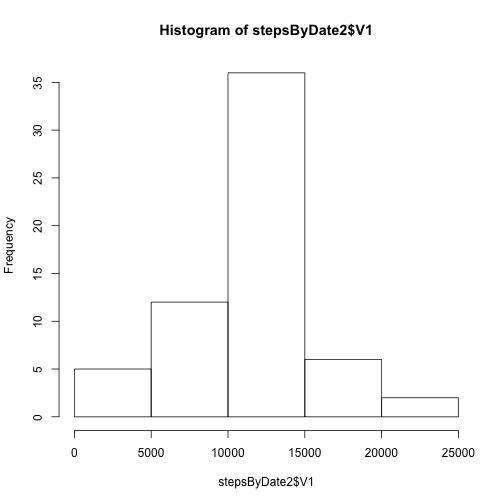
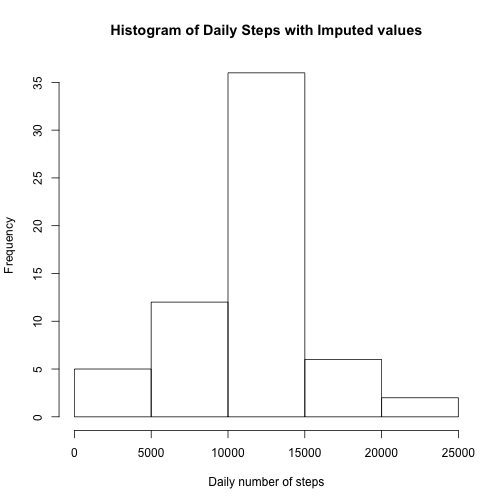
Updated plots

Changed region(s): [[0.2083, 0.0298, 0.8333, 0.0893], [0.4167, 0.9226, 0.6548, 0.9821]]

diff --git a/PA1_ashetti.md b/PA1_ashetti.md
@@ -1,0 +1,132 @@
+---
+output: html_document
+---
+# Reproducible Research: Peer Assessment 1
+This is the submission for the Coursera Reproducible Research course Peer Assessment 1.  
+Lets first load the data.table package. This package makes life easy for us later when summing up and creating time series plots  and also we will load the plyr package for the ddply function, which makes life easy in calculating subtotals across multiple levels. And also the ggplot2 package for plotting functions.
+
+```r
+library(data.table)
+library(plyr)
+library(ggplot2)
+```
+Now lets load up the data. We assume activity.zip is in our working directory.  
+## Loading and preprocessing the data
+
+```r
+unzip("activity.zip")
+activity <- read.csv("activity.csv")
+ACTIVITY <- data.table(activity)
+setkey(ACTIVITY,date)
+```
+  
+
+## What is mean total number of steps taken per day?
+
+```r
+stepsByDate <- ACTIVITY[,sum(steps,na.rm = TRUE),by=date];
+hist(x=stepsByDate$V1,plot=TRUE,main="Histogram of Daily Steps",xlab="Daily number of steps");
+```
+
+![plot of chunk Question2](figure/Question2.png) 
+
+```r
+meansteps <- mean(stepsByDate$V1);
+mediansteps <- median(stepsByDate$V1);
+mean1 <- sprintf("%.0f",meansteps)
+median1 <- sprintf("%.0f",mediansteps)
+```
+The mean total number of steps taken per day is 9354  
+The median total number of steps taken per day is 10395  
+
+## What is the average daily activity pattern?  
+For this question, lets plot the steps taken for each interval  
+
+```r
+stepsByInterval <- ACTIVITY[,mean(steps,na.rm=TRUE),by=interval]
+plot(x <- stepsByInterval$interval,y<- stepsByInterval$V1, type = "l",xlab = "Interval",ylab = "Steps",main="Steps per interval")
+maxSteps <- max(stepsByInterval$V1)
+maxInterval <- stepsByInterval$interval[which.max(stepsByInterval$V1)]
+abline(v=maxInterval,col=3)
+axis(side=1,at=maxInterval,col=3)
+```
+
+![plot of chunk Question3](figure/Question3.png) 
+
+```r
+mI <- sprintf("%.0f",maxInterval)
+mS <- sprintf("%.0f",maxSteps)
+```
+    
+Interval 835 has the maximum average number of steps of 206  
+  
+
+## Imputing missing values  
+Lets use is.na to count missing values in the steps variable  
+
+```r
+missingValues <- sum(is.na(ACTIVITY$steps))
+```
+  
+There are 2304 missing values in the data set  
+Now lets use the mean for the interval to fill in missing values  
+
+```r
+mVLogical <- is.na(ACTIVITY$steps)
+ACTIVITY2<-ACTIVITY
+for (i in 1:length(ACTIVITY2$steps)){
+  if (is.na(ACTIVITY2$steps[i])){
+    interval <- ACTIVITY2$interval[i]
+    ACTIVITY2$steps[i] <- stepsByInterval$V1[which(stepsByInterval$interval==interval)]
+  }
+}
+```
+    
+Now lets compute mean total number of steps for new dataset with NA's filled in and also find mean and media for new data set  
+
+```r
+stepsByDate2 <- ACTIVITY2[,sum(steps,na.rm = TRUE),by=date]
+mean2 <- sprintf("%.0f",mean(stepsByDate2$V1))
+median2 <- sprintf("%.0f",median(stepsByDate2$V1))
+hist(x=stepsByDate2$V1,plot=TRUE,main="Histogram of Daily Steps with Imputed values",xlab="Daily number of steps")
+```
+
+![plot of chunk Question4_3](figure/Question4_3.png) 
+  
+Mean number of steps with NA's filled in with imputed data is 10766  
+Median number of steps with NA's filled in with imputed data is 10766  
+As we can see the mean and median are now both identical and are both a little higher than with the original data  
+  
+
+## Are there differences in activity patterns between weekdays and weekends?  
+Lets first convert the interval to time and then use the weekdays function to assign day of the week.  
+Then add weekend and weekday labels and calculate average by interval for each day.  
+
+
+```r
+dt2 <- paste(ACTIVITY2$date,sprintf("%04d",ACTIVITY2$interval)) #paste date and interval into a time string
+days <- weekdays(as.POSIXct(dt2)) #get day from time
+wdays <- ifelse(days %in% c('Saturday','Sunday'), 'weekend', 'weekday') #label as a weekday or weekend
+ACTIVITY2$wdays <- as.factor(wdays) #make wdays a factor variable
+
+activitymeans <- ddply(ACTIVITY2,c('interval','wdays'),function(x) c(Mean=mean(x$steps))) #compute mean for weekdays and weekends
+```
+  
+Here we create a qplot with the weekday/weekend as two panels to compare the activity patterns
+
+```r
+qplot(data=activitymeans,
+      x=interval,y=Mean,
+      geom="line",
+      facets=wdays~.,
+      main="Mean number of steps by interval for weekdays and weekends",
+      ylab="Mean number of steps",
+      xlab="Interval"
+      )
+```
+
+![plot of chunk weekdayplot](figure/weekdayplot.png) 
+  
+From the plot it is clear that the peak mean number of steps on weekends is lower than for weekdays and also there is more activity throughout the day.    
+In addition, the weekday steps taken start picking up earlier than on weekends and also end earlier than on weekends. This is probably a reflection of the typical working day schedule.  
+
